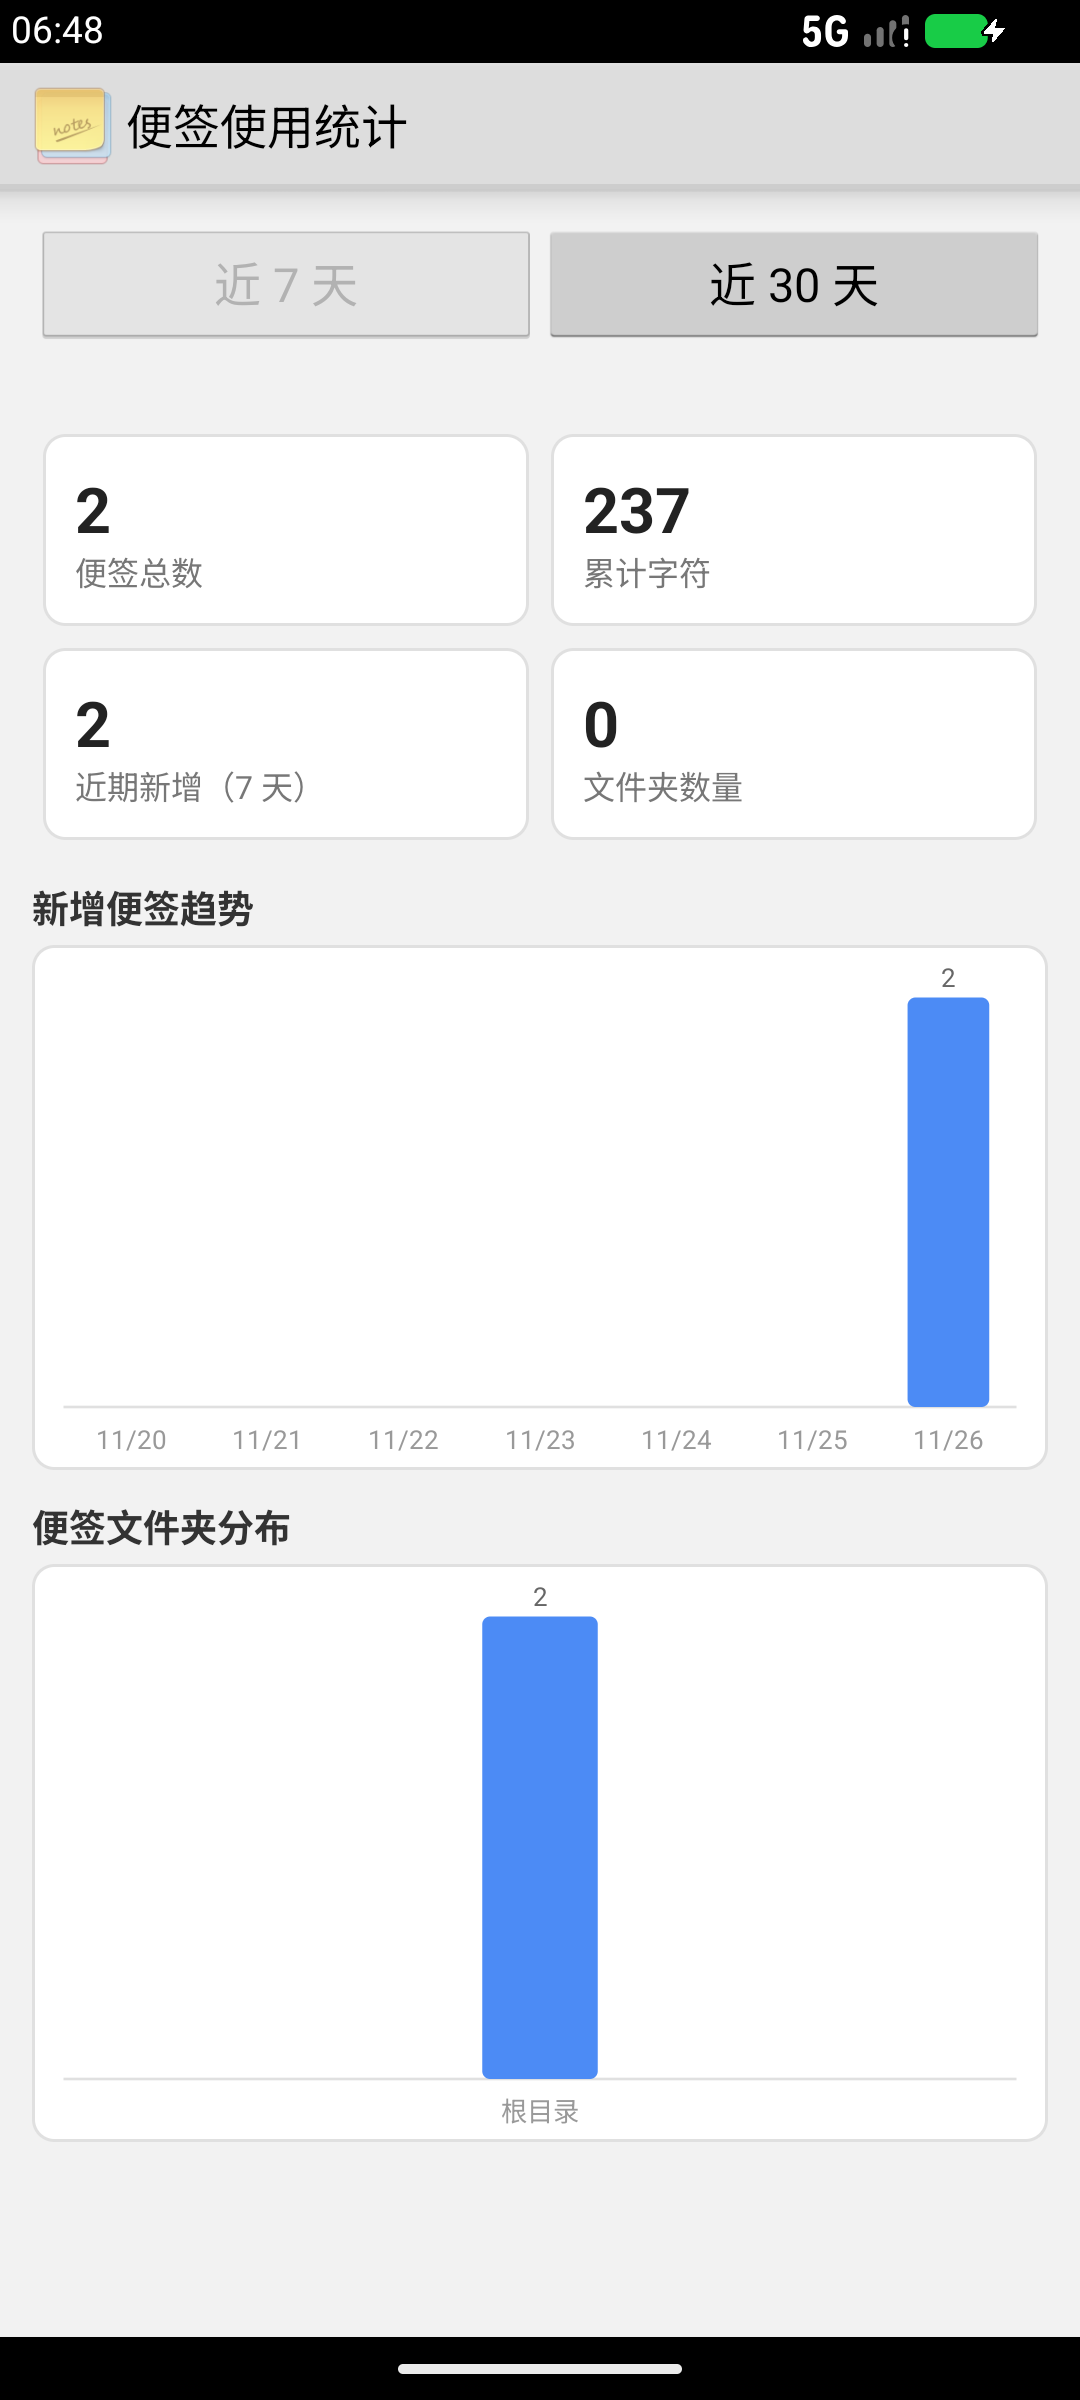
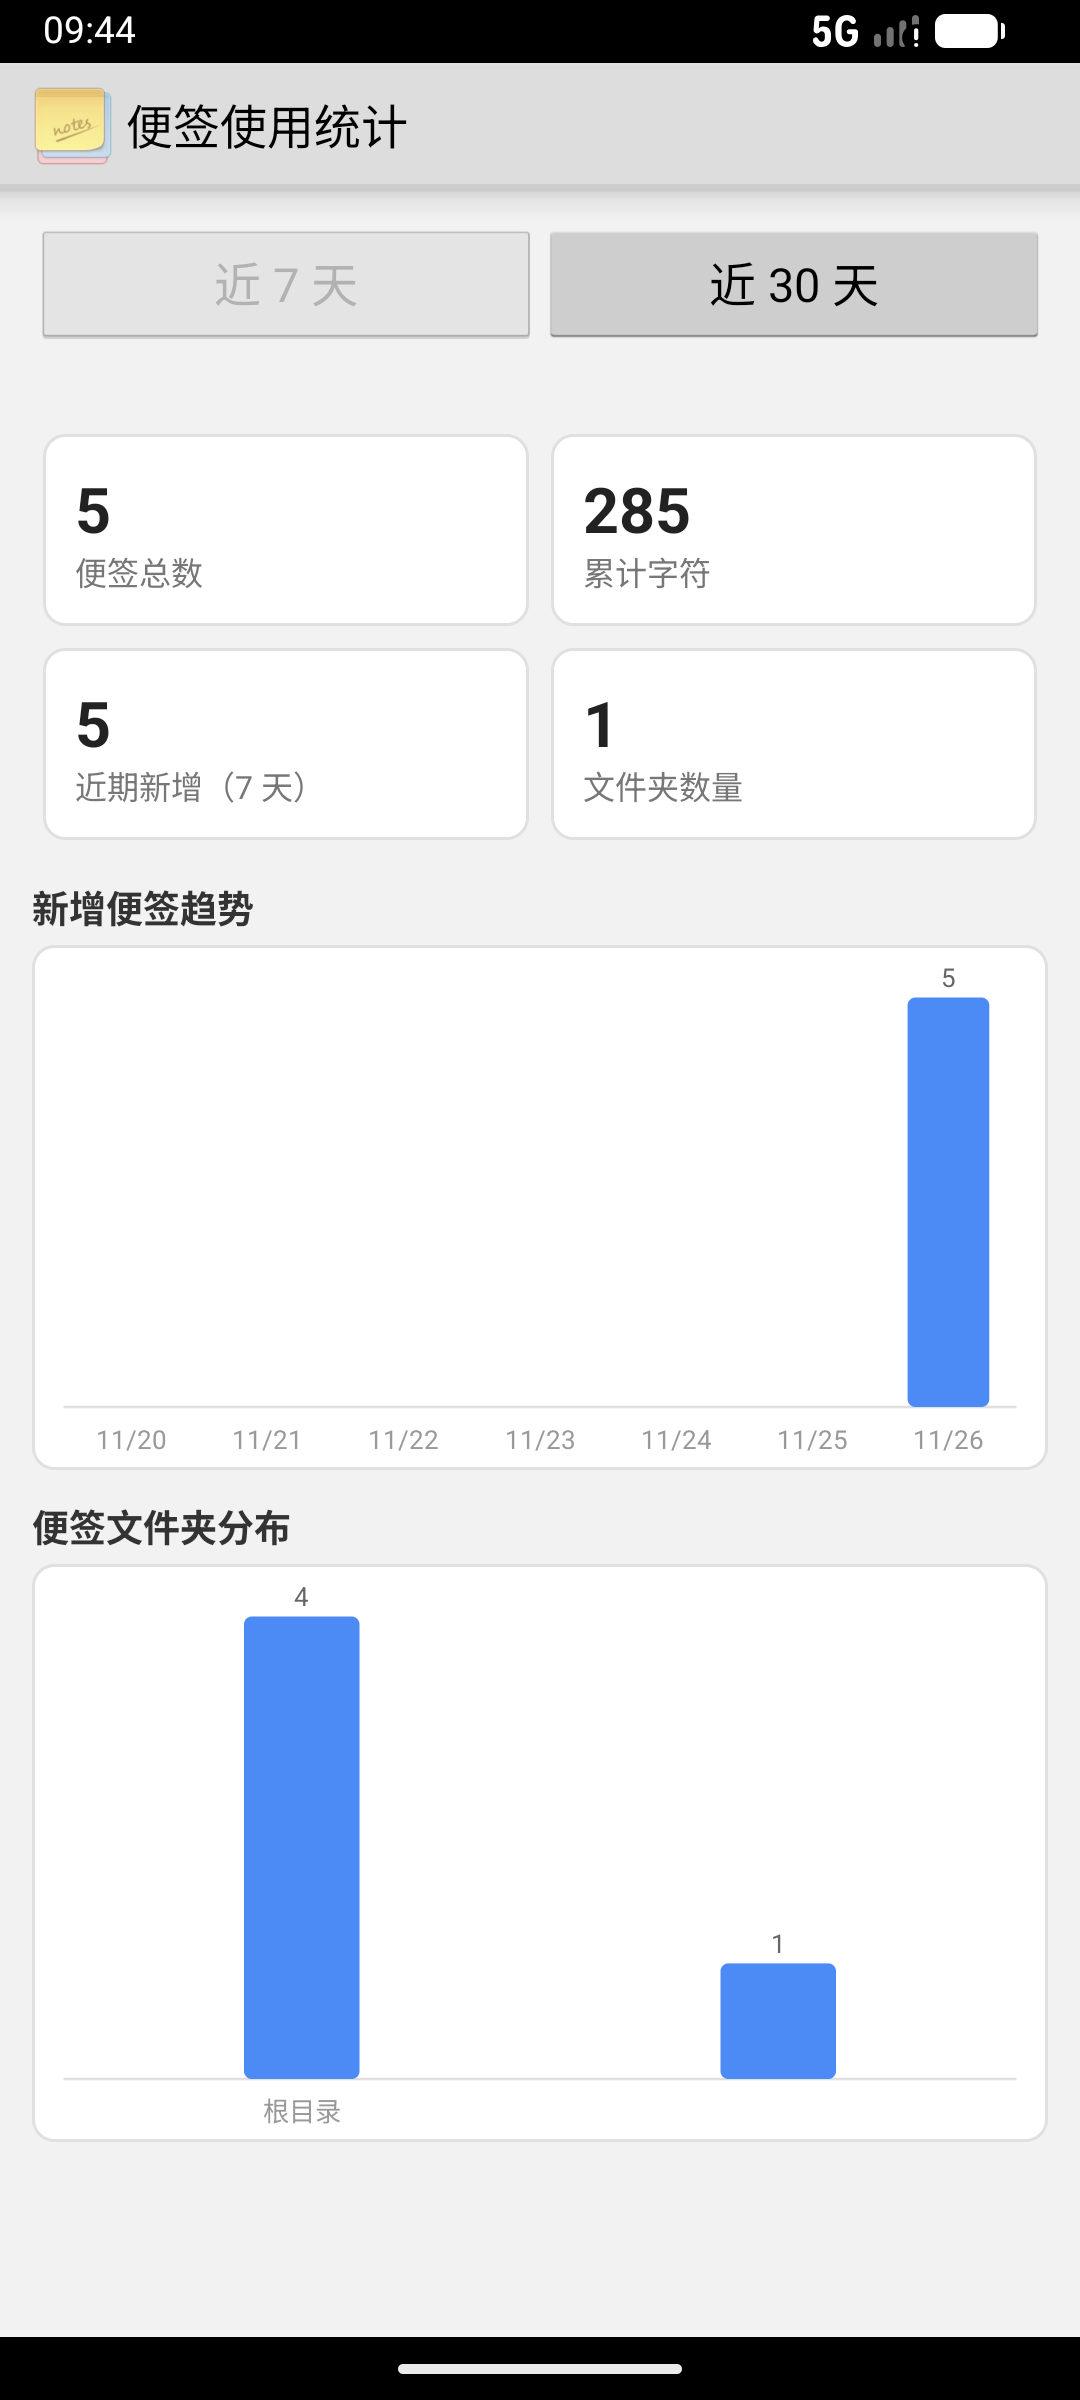
docs(ui): 按含可见入口的最新代码重拍 after 阶段截图

diff --git a/doc/evidence/member-6/06-before-after.md b/doc/evidence/member-6/06-before-after.md
@@ -8,9 +8,11 @@
 | 启动参数 | `emulator -avd Medium_Phone_API_36.1 -gpu angle -no-snapshot-load -no-boot-anim -no-audio -no-window`（`angle` 不被该版本识别，模拟器日志显示自动回退为 `auto`：swiftshader + lavapipe Vulkan） |
 | 系统语言 | 简体中文 |
 | 对比基线 | `origin/develop`（提交 `1438da4`）构建的 debug APK |
-| 对比新版 | `member-6`（提交 `f23ff92`）构建的 debug APK |
+| 对比新版 | `feat/member-6-overflow-menu`（提交 `a05f464`，含 PR #23 的可见“⋮”入口）构建的 debug APK |
 | 截图方式 | `adb shell screencap -p` + `adb pull`，未做任何裁剪或拼接 |
-| 菜单操作 | 该应用沿用旧式菜单（无 ActionBar），通过 `adb shell input keyevent 82`（MENU 键）唤出 |
+| 菜单操作 | 点击页面顶部可见“⋮”入口（`@+id/btn_overflow_menu`，内部调用 `openOptionsMenu()`）唤出菜单，不再使用物理 MENU 键 |
+
+> 本轮 after/ 效果图（2026-11-26 17:40 起）已按含可见“⋮”入口的最新代码全部重拍，界面与当前实际版本一致；before/ 保持未改动状态的原图。
 
 ### 1.1 GPU 后端尝试记录
 
@@ -29,10 +31,10 @@
 | 阶段 | 文件 | 说明 |
 |---|---|---|
 | 修改前 | `before/member6-M09-list-menu-before-20261126.png` | 基线版本列表页菜单，只有“新建文件夹 / 导出文本 / 同步 / 设置 / 搜索”，无统计入口 |
-| 修改后 | `after/member6-M09-stats-entry-menu-20261126.png` | 新版本列表页菜单新增“使用统计” |
+| 修改后 | `after/member6-M09-stats-entry-menu-20261126.png` | 点击列表页顶部“⋮”后弹出原有菜单，新增“使用统计” |
 | 修改后 | `after/member6-M09-stats-7days-20261126.png` | 统计页近 7 天：便签总数、累计字符、近期新增、文件夹数量 + 趋势图 + 文件夹分布 |
 | 修改后 | `after/member6-M09-stats-30days-20261126.png` | 切换到近 30 天后，趋势图按 30 天绘制，横轴标签抽稀为 11/1、11/6… |
-| 修改后 | `after/member6-M09-stats-refresh-20261126.png` | 新增 1 条便签后重新进入统计页，总数 1→2、字符 221→237、今天柱 1→2，证明刷新有效 |
+| 修改后 | `after/member6-M09-stats-refresh-20261126.png` | 新增 1 条 20 字符的便签后，再次由“⋮”进入统计页：总数 4→5、累计字符 265→285、近期新增 4→5，证明刷新有效 |
 | 代码 | `after/member6-M09-code-calculator-20261126.png` | `NoteStatsCalculator` 汇总与趋势实现 |
 | 代码 | `after/member6-M09-code-stats-activity-20261126.png` | `NoteStatsActivity` 后台查询与渲染实现 |
 
@@ -41,7 +43,7 @@
 | 阶段 | 文件 | 说明 |
 |---|---|---|
 | 修改前 | `before/member6-M10-edit-menu-before-20261126.png` | 基线版本编辑页菜单，无“阅读模式” |
-| 修改后 | `after/member6-M10-reading-entry-menu-20261126.png` | 新版本编辑页菜单新增“阅读模式” |
+| 修改后 | `after/member6-M10-reading-entry-menu-20261126.png` | 点击编辑页顶部“⋮”后弹出原有菜单，新增“阅读模式” |
 | 修改后 | `after/member6-M10-reading-light-20261126.png` | 阅读模式·浅色主题，顶部显示“约 1 分钟读完”，底部三个偏好按钮 |
 | 修改后 | `after/member6-M10-reading-eye-care-20261126.png` | 阅读模式·护眼主题（米黄底深棕字） |
 | 修改后 | `after/member6-M10-reading-dark-20261126.png` | 阅读模式·深色主题（深灰底浅色字） |
@@ -53,16 +55,18 @@
 
 | 阶段 | 文件 | 说明 |
 |---|---|---|
-| 修改后 | `after/member6-M09-stats-overflow-entry-20261126.png` | 列表页顶部新增可见“⋮”，位于便签内容上方，不遮挡条目与“写便签”按钮 |
-| 修改后 | `after/member6-M09-stats-overflow-menu-20261126.png` | 点击列表页“⋮”弹出原有菜单，“使用统计”等原有项与顺序不变 |
-| 修改后 | `after/member6-M10-reading-overflow-entry-20261126.png` | 编辑页顶部新增可见“⋮”，不与右上角调色按钮重叠，不遮挡正文 |
-| 修改后 | `after/member6-M10-reading-overflow-menu-20261126.png` | 点击编辑页“⋮”弹出原有菜单，“阅读模式”等原有项与顺序不变 |
+| 修改后 | `after/member6-M09-stats-overflow-entry-20261126.png` | 列表页顶部可见“⋮”（无障碍描述为“更多选项”），位于便签内容上方，不遮挡条目与“写便签”按钮 |
+| 修改后 | `after/member6-M10-reading-overflow-entry-20261126.png` | 编辑页顶部可见“⋮”，不与右上角调色按钮重叠，不遮挡正文 |
 
-实测：由“⋮”进入“使用统计”可见便签总数/累计字符等数据；由“⋮”选择“阅读模式”可正常进入阅读页。
+说明：
+
+1. 上表两张图展示入口本体；点击后弹出菜单的画面见 2.1 的 `member6-M09-stats-entry-menu` 与 2.2 的 `member6-M10-reading-entry-menu`，两张均为本轮通过点击“⋮”重拍。
+2. 首版单独保存过 `member6-M09-stats-overflow-menu`、`member6-M10-reading-overflow-menu` 两张，场景与上述菜单图重复，已删除，避免同一场景保留新旧两套文件。
+3. 全部 after 截图均由真实点击“⋮”进入后抓取，未使用物理 MENU 键。
 
 ## 3. 对比结论
 
-1. **入口**：基线的列表菜单与编辑菜单均无新入口；新版本各新增一项，且未改变原有菜单项的顺序与文案。
+1. **入口**：基线的列表菜单与编辑菜单均无新入口；新版本各新增一项，并提供可见“⋮”按钮（不再依赖物理菜单键），原有菜单项顺序与文案未变。
 2. **统计正确性**：新增 1 条 16 字符的便签后，总数、累计字符、近期新增、今日趋势柱全部同步变化，文件夹分布总数与便签总数一致。
 3. **阅读模式**：三种主题、三档字号、三档行距均实际生效；页面无编辑控件；退出后便签内容不变。
 4. **偏好持久化**：切到深色 + 大字号 + 宽松行距后重新进入阅读模式，设置仍然保持。
